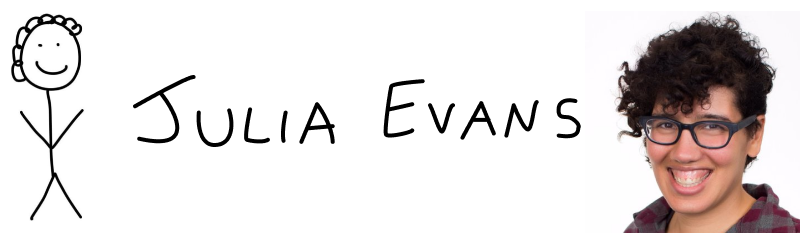
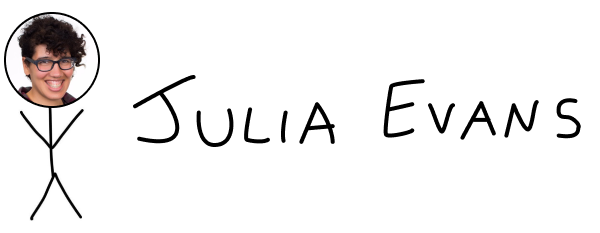
Add hover effect to hero image

Changed region(s): [[0.0, 0.03, 1.0, 1.0]]

diff --git a/amanda_jarvinen/week_02/fan-site/index.html b/amanda_jarvinen/week_02/fan-site/index.html
@@ -23,10 +23,12 @@
 
   <main>
     <div id="heroImg">
-      <img src="images/JuliaEvansSelfPortrait.png" alt="Self-portrait of Julia Evans">
+      <!-- <img id="drawingJulia" src="images/JuliaEvansSelfPortrait.png" alt="Self-portrait of Julia Evans">
+      <img id="photoJulia"src="images/JuliaEvansSelfPortrait01.png" alt="Photo of Julia Evans"> -->
     </div> <!-- div#heroImg -->
     <p>Julia Evans (<a href="https://twitter.com/b0rk">@bOrk</a>) a.k.a Wizard of Zines, is a Software Developer known for making kick 'ass <a href="https://wizardzines.com" target="_blank">Zines</a>, <a href="https://wizardzines.com/comics/" target="_blank">Comics</a>, <a href="https://computers-are-fast.github.io" target="_blank">Games</a> and <a href="https://wizardzines.com#posters" target="_blank">Posters</a> that make the world of programming accessible to everyone.</p>
-    <p>Alohomora impedimenta liberacorpus lacarnum imperio imperio leviosa aparecium mortis. Quietus tarantallegra portus inflamarae. Patronum immobulus tarantallegra locomotor relashio evanesco. Sonorus locomotor sonorous petrificus arania alohomora. Mobilicorpus expelliarumus ennervate me immobilus patronum.Stupefy patronum funnunculus momentum rictusempra engorgio quodpot protego locomotor.</p>
+    <p>Alohomora impedimenta liberacorpus lacarnum imperio imperio leviosa aparecium mortis. Quietus tarantallegra portus inflamarae. Patronum immobulus tarantallegra locomotor relashio evanesco. Sonorus locomotor sonorous petrificus arania alohomora. Mobilicorpus expelliarumus ennervate me immobilus patronum.Stupefy patronum funnunculus momentum rictusempra engorgio quodpot protego locomotor.
+    trivia: Julia once shaved a <a href="https://www.crunchbase.com/person/julia-evans" target="_blank">smiley face in the side of her head</a>.</p>
     <p>Interested in learning more? Of course you are! Go watch some of her <a href="https://jvns.ca/talks/" target="_blank">talks</a>.</p>
 
 

diff --git a/amanda_jarvinen/week_02/fan-site/css/style.css b/amanda_jarvinen/week_02/fan-site/css/style.css
@@ -109,13 +109,16 @@ main {
   height: 32%;
   margin-bottom: 32px;
   box-shadow: 0px 1px 4px rgba(0, 0, 0, 0.1);
+  background-image: url('../images/JuliaEvansSelfPortrait.png');
+  background-repeat: no-repeat;
+  background-position: center;
+  background-size: 80% 80%;
+
+  transition: background-image 0.2s ease;
 }
 
-#heroImg img {
-  display: block;
-  height: 200px;
-  padding-bottom: 0;
-  margin: auto;
+#heroImg:hover {
+  background-image: url('../images/JuliaEvansSelfPortrait01.png');
 }
 
 main p {
